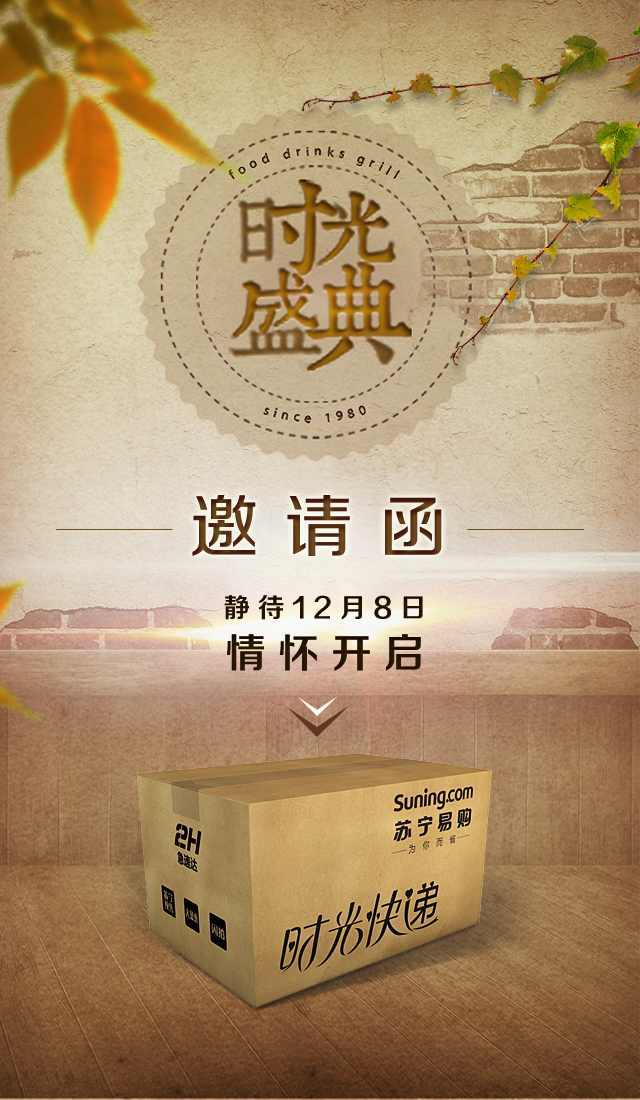
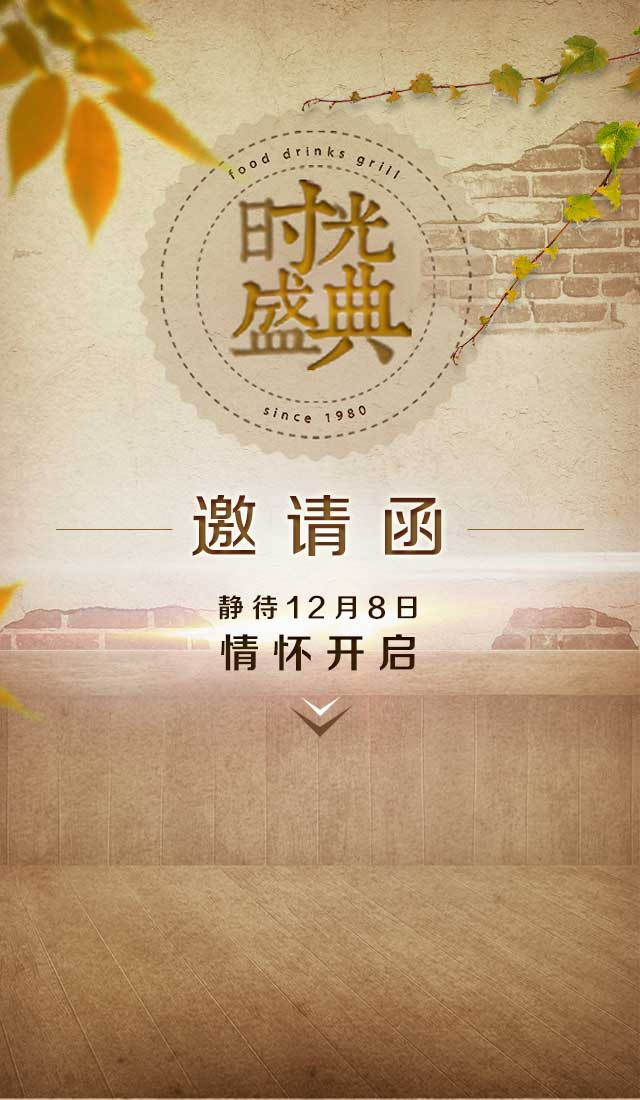
preview

diff --git a/index.html b/index.html
@@ -7,7 +7,7 @@
         <title>时光盛典</title>
         <style>
             html, body { padding: 0; }
-            body { margin: 0 auto; max-width: 480px; font-family: '黑体'; font-size: 0px; }
+            body { margin: 0 auto; max-width: 480px; font-family: '黑体'; font-size: 0px; overflow: hidden; }
             img { border: none; }
             ul, li { list-style-type: none; margin: 0; padding: 0; }
             a { text-decoration: none; color: #555; }
@@ -15,14 +15,21 @@
         </style>
     </head>
     <body>
-        <img style='display: block; width: 100%;' src='web/images/placeholder.jpg' />
+        <div style='position: relative;'>
+            <img style='display: block; width: 100%;' src='web/images/placeholder.jpg' />
+            <img id='box' style='display: block; position: absolute; top: 0px; width: 100%;' src='web/images/boxv2.png' />
+        </div>
+        
         
         <script src='web/js/jquery-1.10.1.min.js'></script>
         <script src='web/js/velocity.min.js'></script>
         <script src='web/js/velocity.ui.min.js'></script>
         <script>
             $(function(){
-                
+                $('#box').velocity('callout.shake');
+                setInterval(function(){
+                    $('#box').velocity('callout.shake');
+                }, 3000);
             });
         </script>
     </body>
